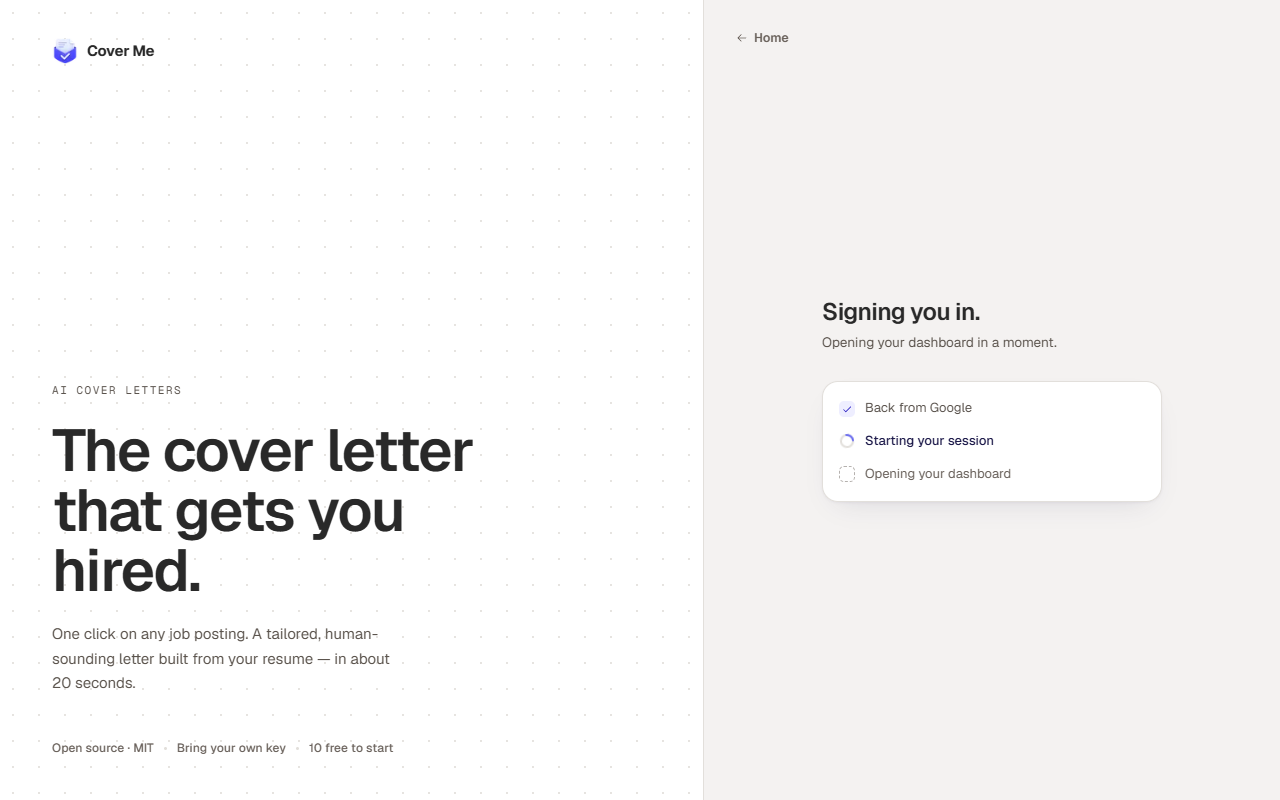
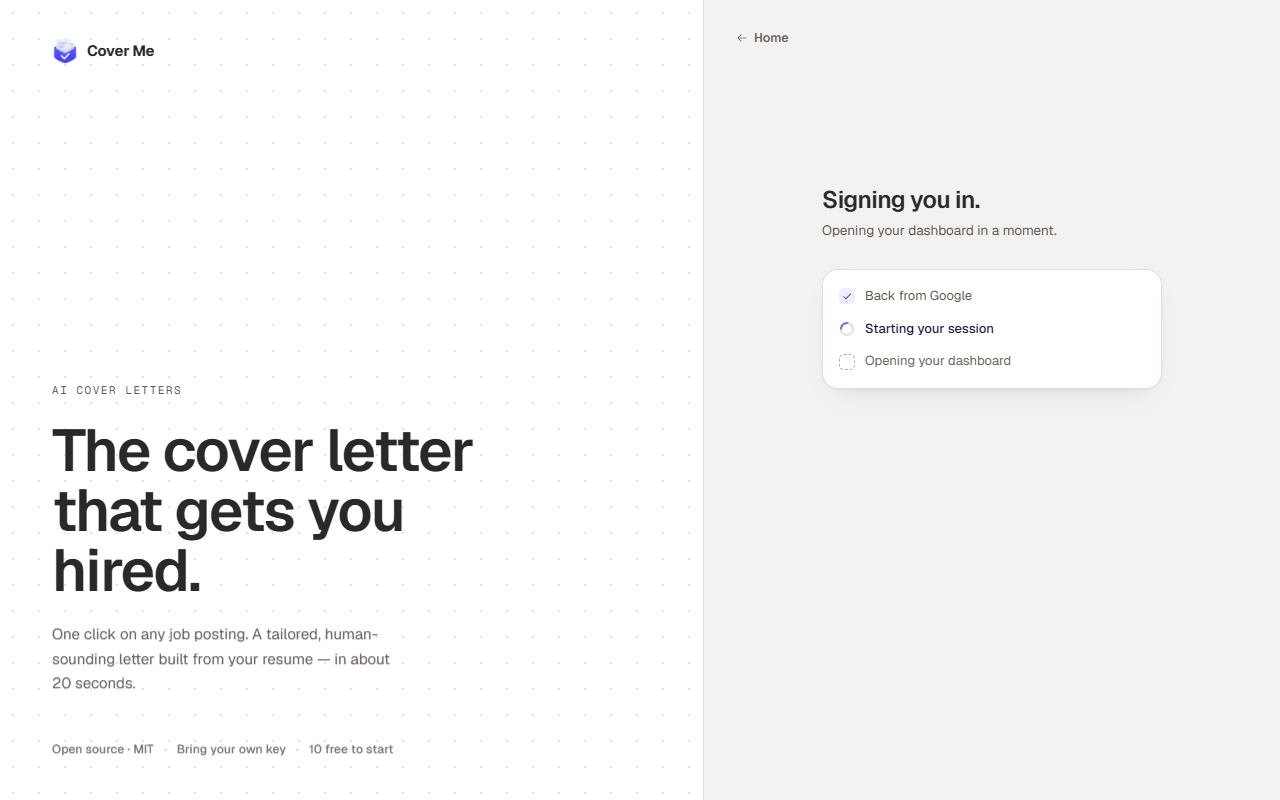
fix(#42): the auth heading stays put when the view changes height

diff --git a/web/app/auth/AuthContent.tsx b/web/app/auth/AuthContent.tsx
@@ -351,7 +351,7 @@ function AuthForm() {
       </div>
 
       {/* ── Right panel ─────────────────────────────────────────────────── */}
-      <div className="relative bg-background flex flex-col items-center justify-center px-10 py-12 min-h-screen max-md:px-6 max-md:pt-14 max-md:pb-10">
+      <div className="relative bg-background flex flex-col items-center px-10 py-12 min-h-screen max-md:px-6 max-md:pt-14 max-md:pb-10">
 
         {/* Back link — hidden in reset view (user arrived via email link) */}
         {view !== "reset" && (
@@ -364,8 +364,12 @@ function AuthForm() {
           </a>
         )}
 
+        {/* Top-aligned, not centred, so a heading stays put when the view
+            changes height (waiting view to form, sign-in to forgot). The offsets
+            put every heading where the centred sign-in form had it (a 429px
+            column on desktop, measured; phones add the logo above it). */}
         <div
-          className="relative z-[1] w-full max-w-[340px] max-md:max-w-full"
+          className="relative z-[1] w-full max-w-[340px] mt-[max(0px,calc(50vh-262px))] max-md:max-w-full max-md:mt-[max(0px,calc(50vh-291px))]"
           style={{ animation: "fadeUp 0.5s ease 0.15s both" }}
         >
           <p role="status" className="sr-only">
